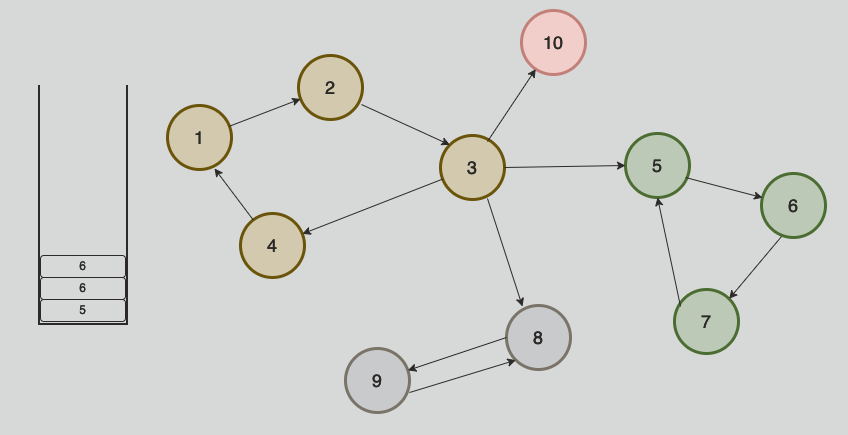
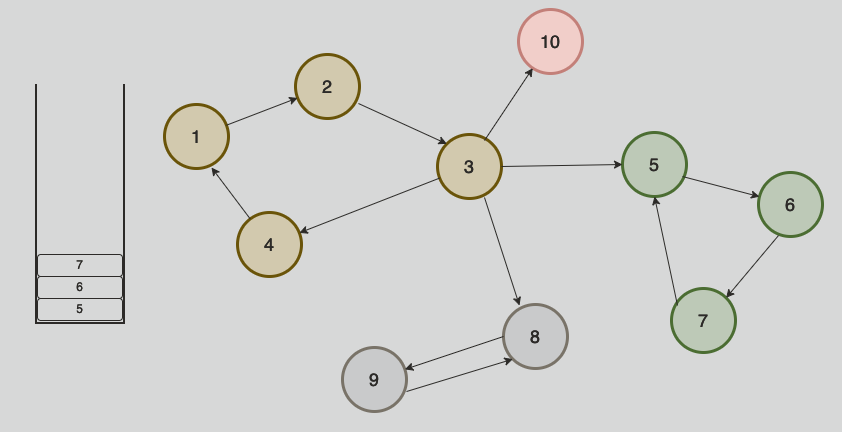
vault backup: 2023-12-16 16:16:50

diff --git a/Algorithm/GraphTheory/Strongly Connected Component.md b/Algorithm/GraphTheory/Strongly Connected Component.md
@@ -25,3 +25,17 @@
 ![tarjan stage 02|600](../images/sccstage02.png)
 
 &nbsp;&nbsp;`DFS`로 순회 중이므로, 더 이상 방문할 정점이 없는 4번 정점은 `DFS Stack`에서 pop되고, 다시 3번 정점에서 5번 정점으로 이동합니다. 5번 정점에서 다시 위의 과정을 반복하여 5,6,7 정점이 `stack`에 쌓이게 되고, 7번 정점에서 5번 정점을 방문하려 할때 5번 정점은 이미 방문처리가 되어 있기 때문에 `stack`에서 5번 정점이 빠져 나올 때까지 pop되는 모든 정점을 하나의 SCC로 묶습니다.
+
+![tarjan stage 03|600](../images/sccstage03.png)
+
+&nbsp;&nbsp;7번은 더 이상 방문할 정점이 없으므로 `DFS Stack`에서 빠져나와 다시 3번 정점으로 돌아갑니다. 3번 정점은 다음으로 8번 정점으로 이동하고, 9번 정점으로 이동했다가 9번 정점에서 다시 8번 정점으로 이동하려 할 때, 8번 정점의 방문 여부와 SCC 생성 여부를 확인해 다시 8번 정점이 pop될 때까지 `stack`에서 제거된 모든 정점을 SCC로 그룹화합니다.
+
+&nbsp;&nbsp;마지막으로 `DFS Stack`에 의해 다시 3번 정점으로 돌아와 10번 정점으로 이동하는데, 10번 정점과 같이 더 이상 이동할 정점이 없는 경우 1개의 자기 노드만을 포함한 SCC로 그룹화 합니다.
+
+<br>
+
+보다 자세한 과정은 아래 Javascript 코드를 통해 살펴볼 수 있습니다.
+
+```javascript
+
+```
